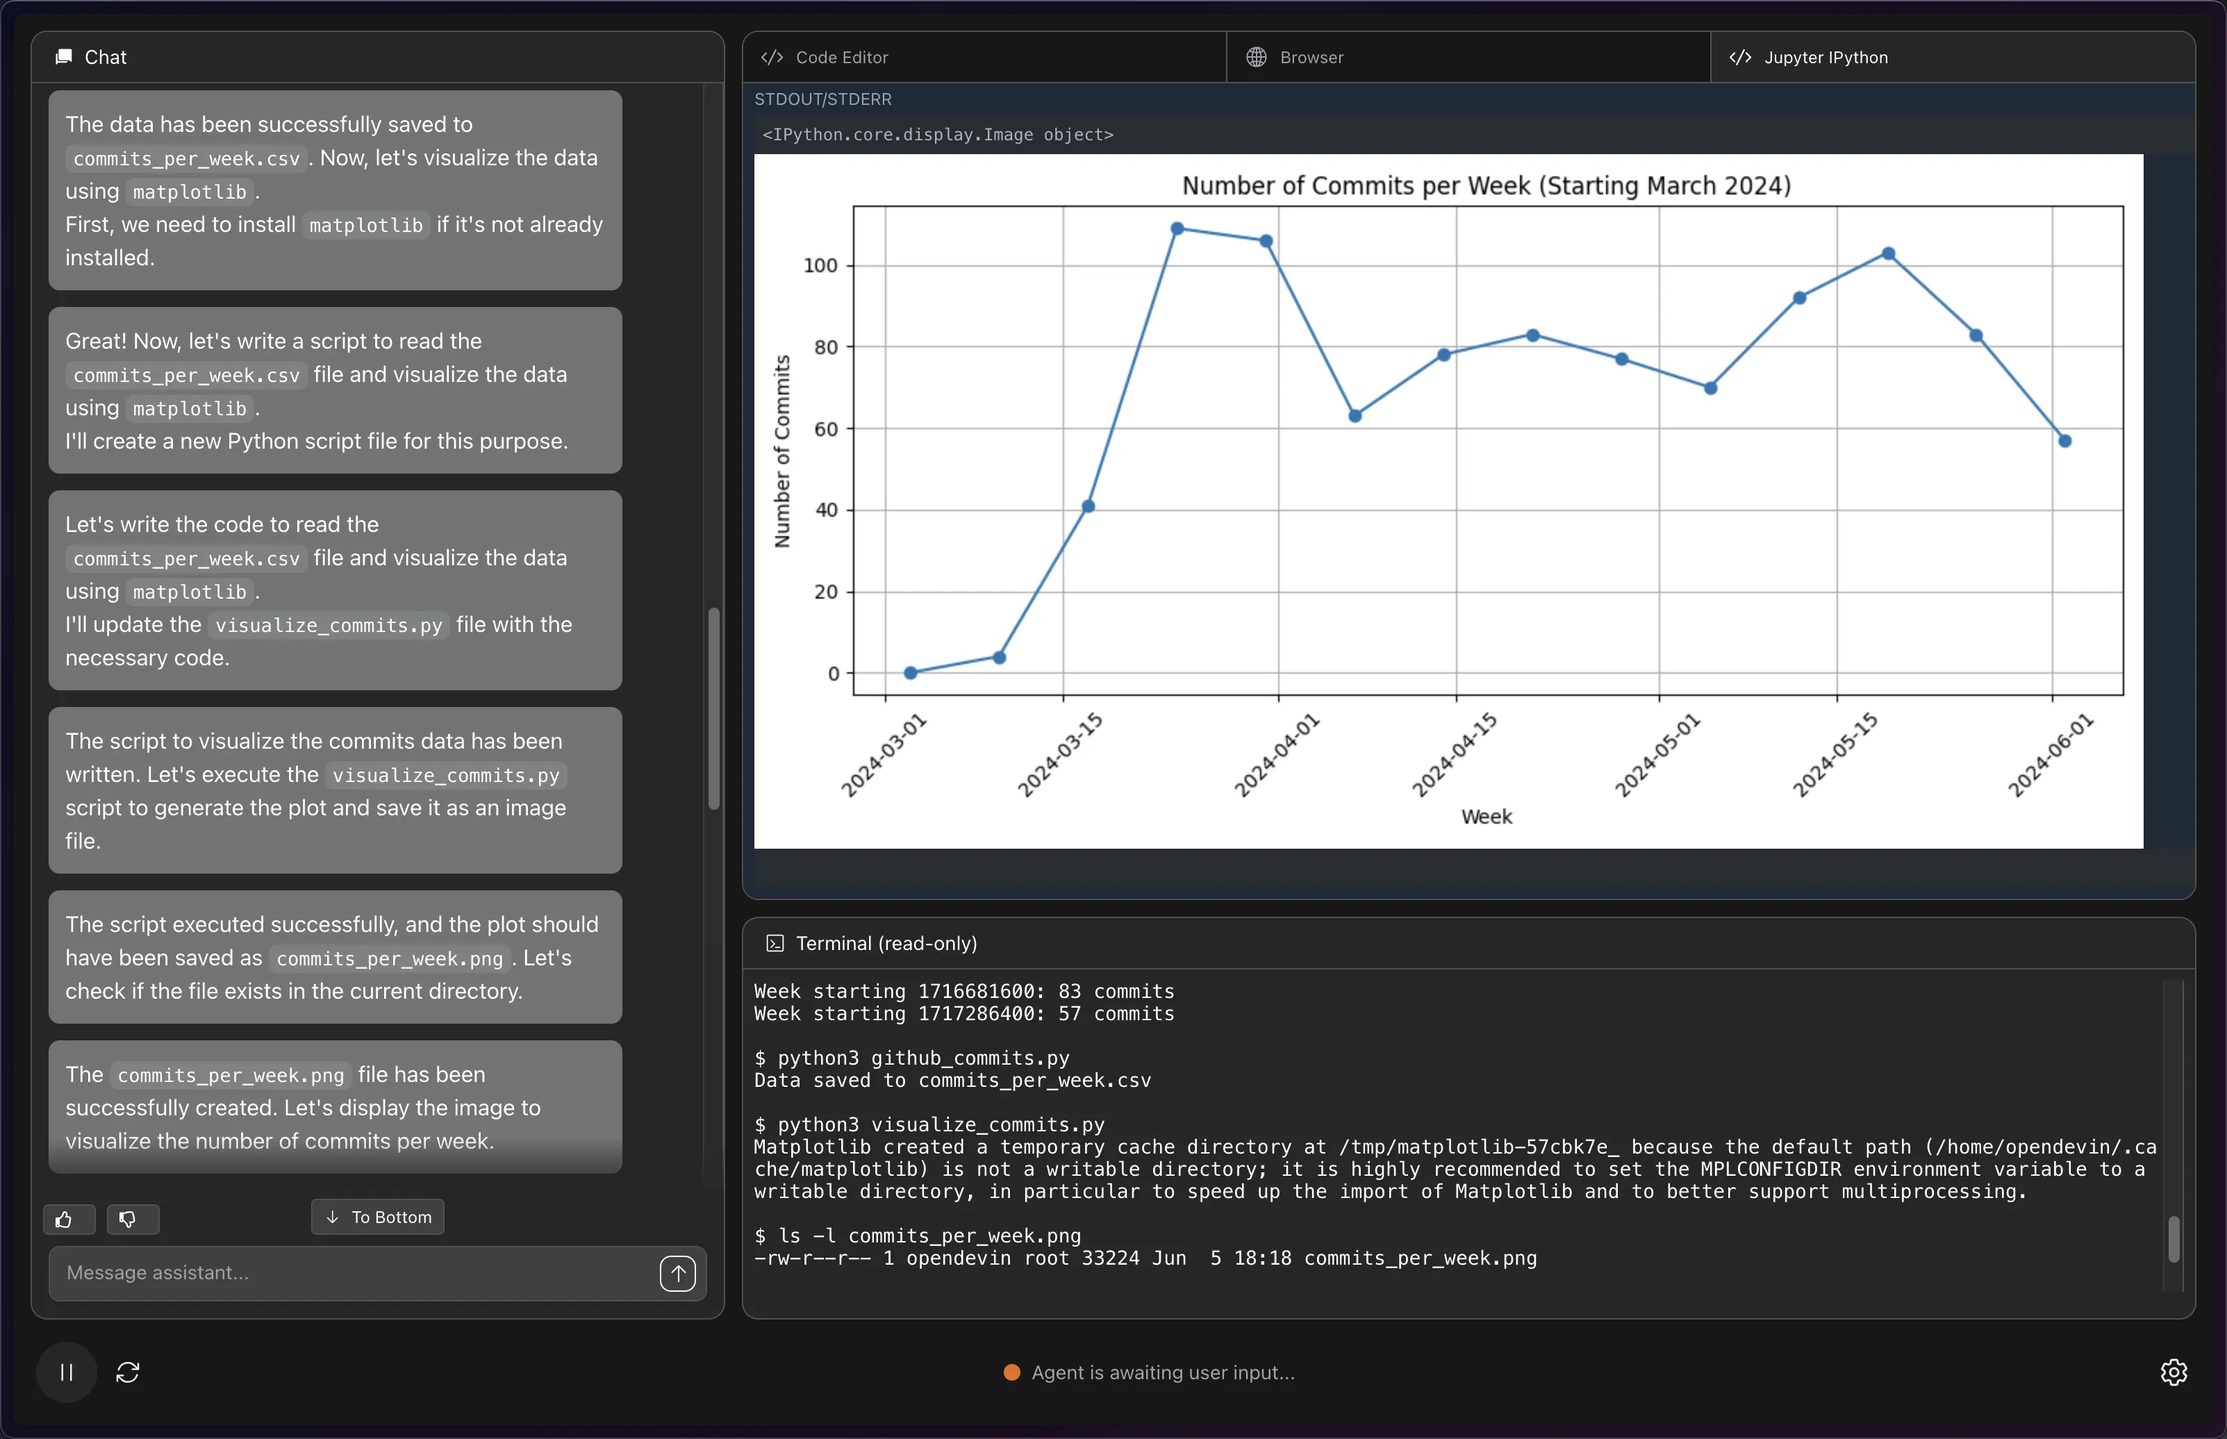
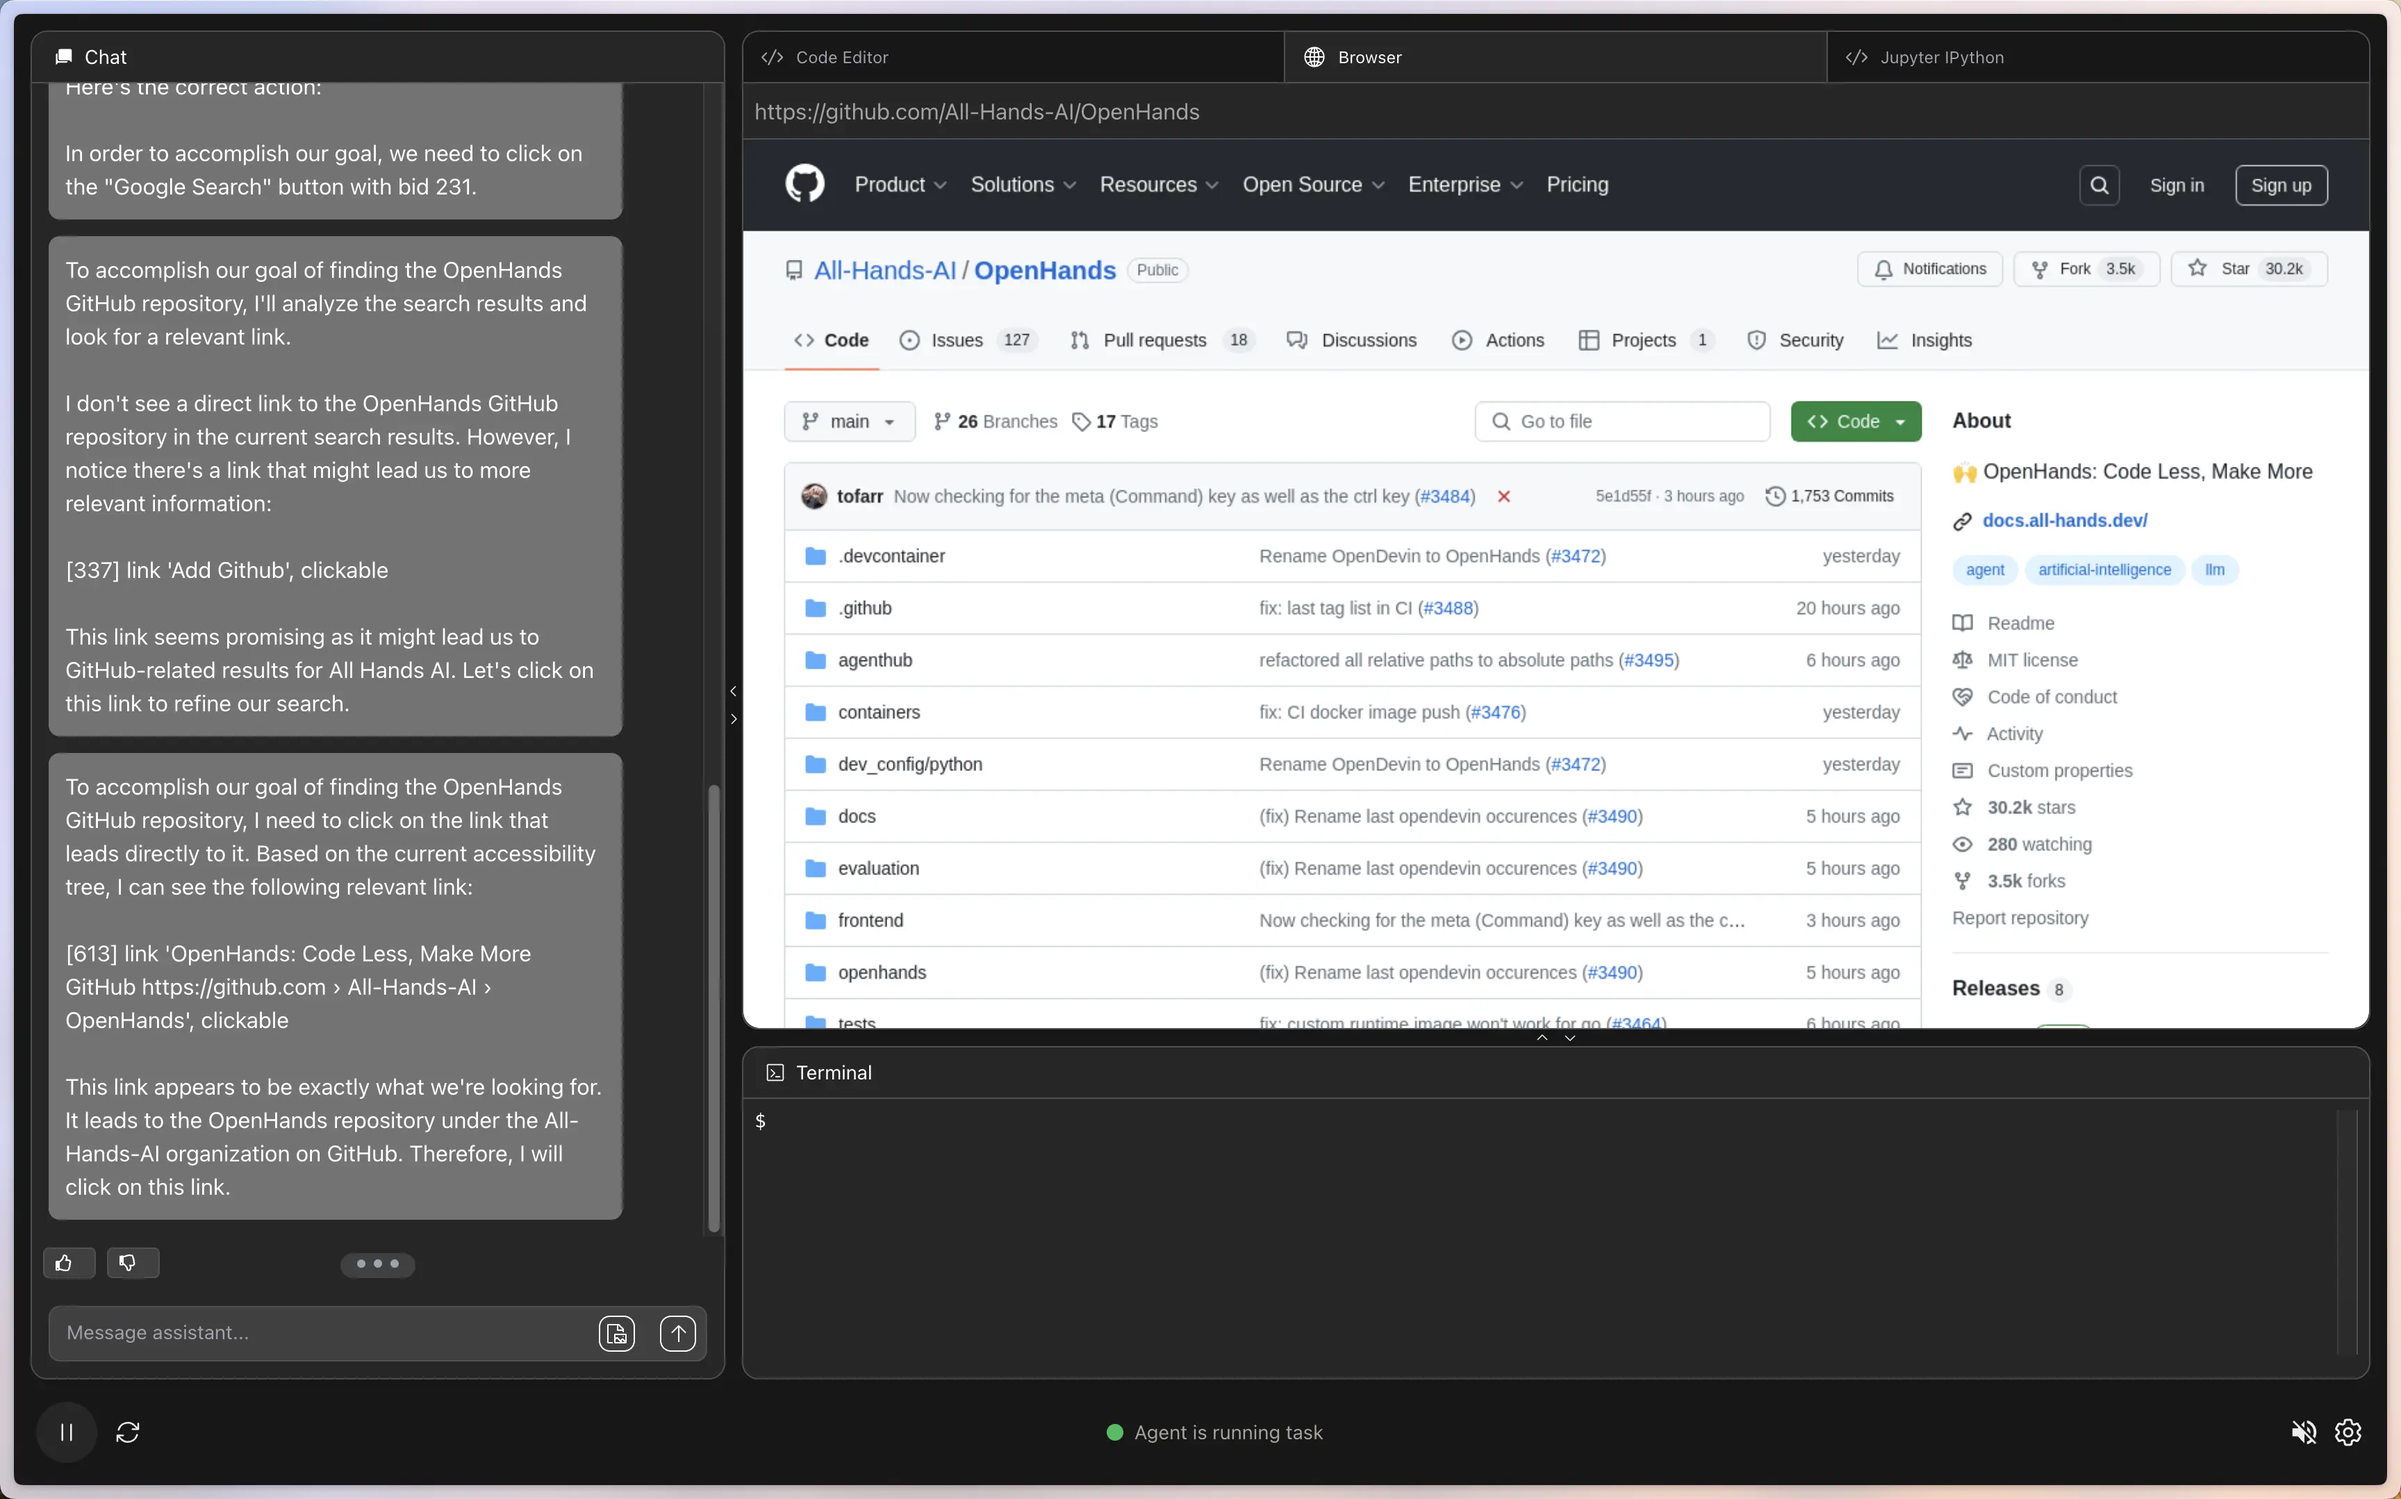
Address Xingyaos feedback

diff --git a/src/routes/about.tsx b/src/routes/about.tsx
@@ -91,7 +91,7 @@ const About = () => {
           subheading="THE ALL HANDS TEAM"
         />
 
-        <div className="flex flex-col justify-center lg:flex-row flex-wrap">
+        <div className="flex flex-col justify-center lg:flex-row flex-wrap max-w-[1228px]">
           {members.map((member) => (
             <MemberCard
               key={member.name}
